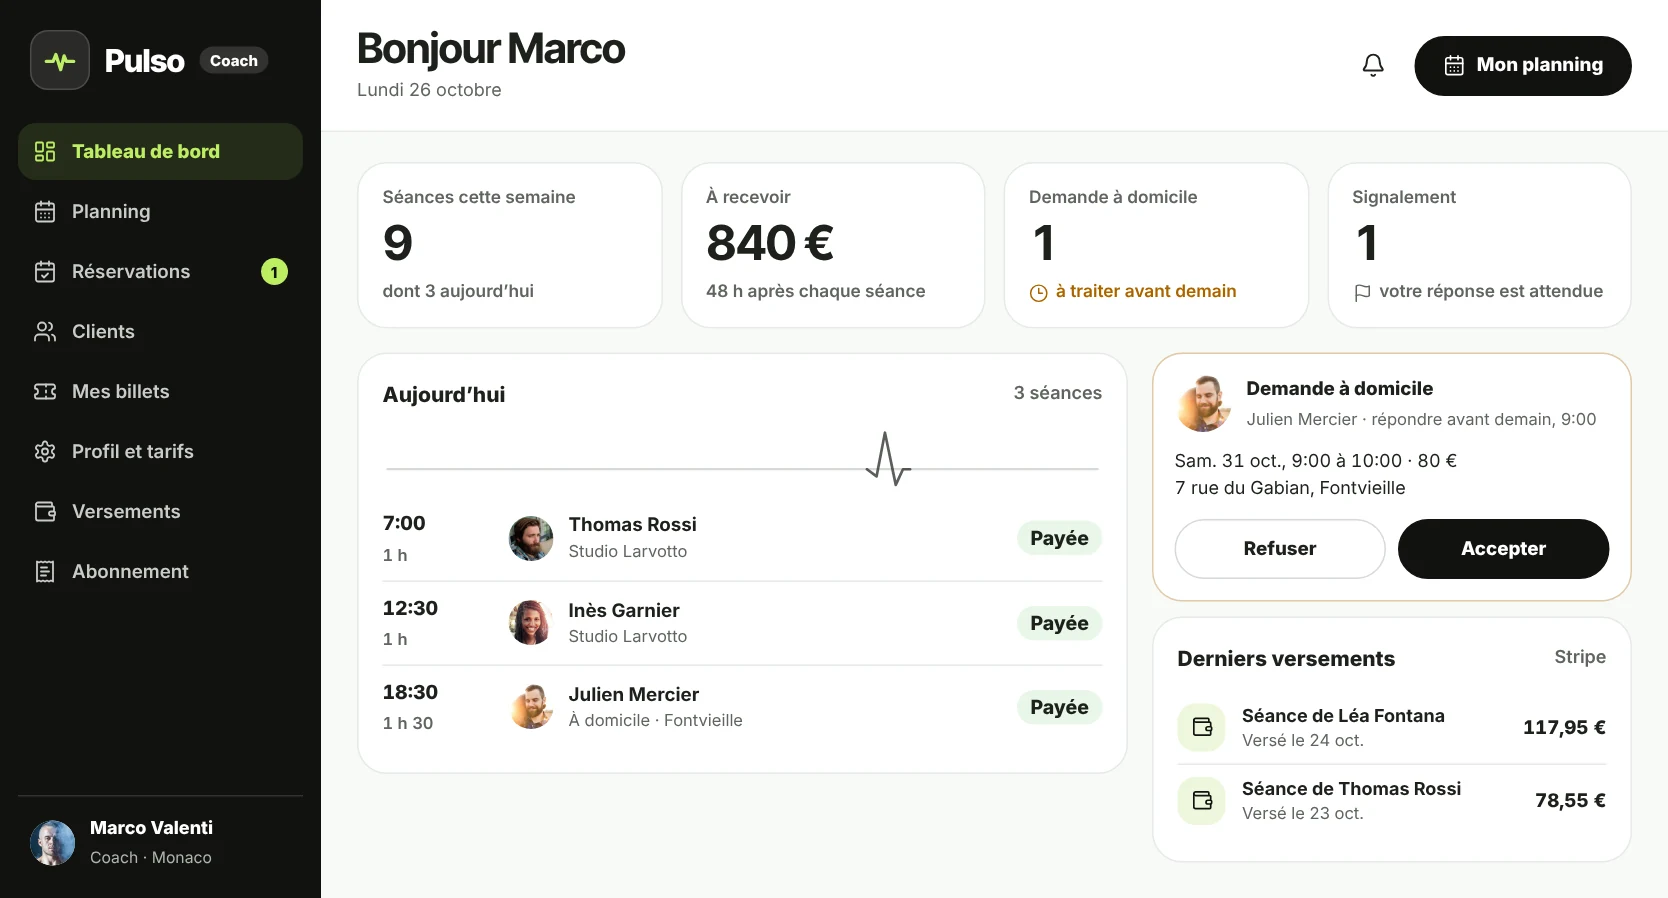
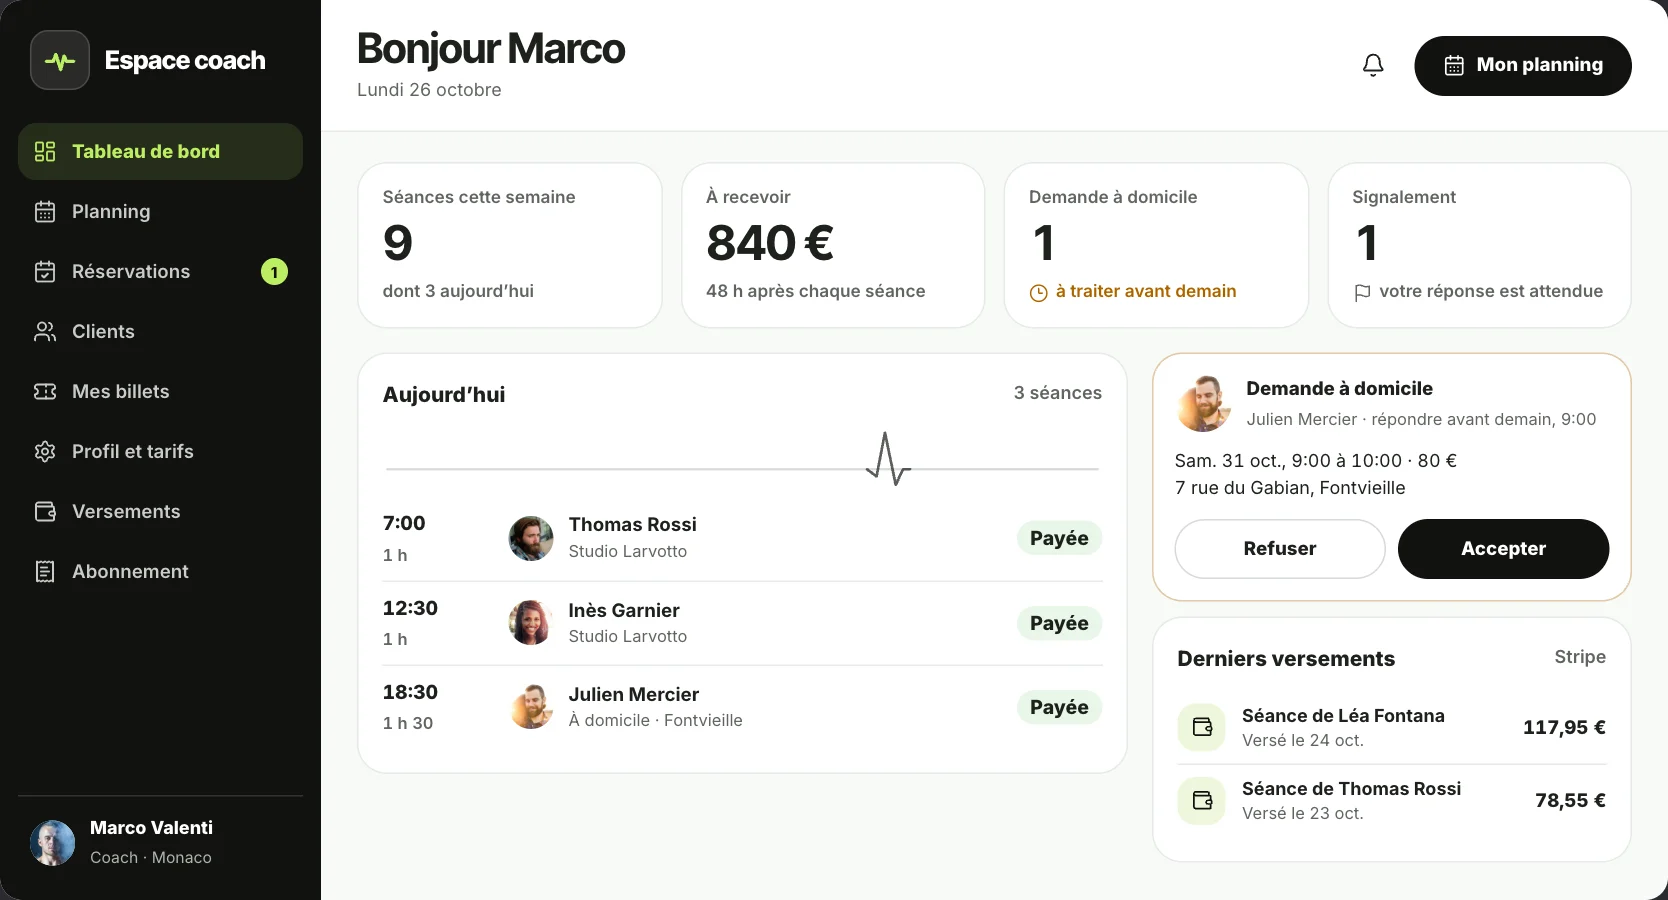
Réalisations : SmoothRide en premier, puis Bailora, WakeUp, coaching et Plouff
Carrousel de l'accueil et page /projets dans le même ordre. La carte
coaching passe en « Application », ses écrans ne portent plus le nom :
« Espace coach » sur ordinateur, « Bonjour Noé » sur le téléphone.

diff --git a/src/ExemplesMetier.jsx b/src/ExemplesMetier.jsx
@@ -16,21 +16,35 @@ import './exemples-metier.css'
 //     là, avec un trait gris à la place du texte, comme une adresse masquée.
 //   - RIEN D'INVENTÉ N'EST PRÉSENTÉ COMME RÉEL. Le titre du bloc dit « déjà construit » : la pastille dit donc
 //     « Application » pour ce qui est construit, et « Maquette d'application » pour la maquette de coaching, qui ne
-//     l'est pas encore (elle passe en dernier). Pas de faux écran d'ordinateur, pas d'application inventée.
-//     Le 27/11/2026, Noé : « Maquette, pour application stp ». La pastille dit « Maquette d'application » et pas
-//     « Application » : au 27/11/2026, le devis de ce projet est envoyé, pas signé, l'application n'existe pas.
+//     l'est pas encore (elle passe avant Plouff). Pas de faux écran d'ordinateur, pas d'application inventée.
+//     Le 27/11/2026 au soir, Noé change d'avis : la pastille de la carte coaching dit « Application », comme les autres.
+//     Ses écrans ne portent plus le nom Pulso : « Espace coach » à côté de l'icône sur ordinateur, « Bonjour Noé »
+//     (plus petit) sur le téléphone. Retouches faites seulement sur les captures, pas sur la page /maquette/pulso.
 //   - La maquette de coaching montre le nom et le logo (« Pulso ») d'un projet qui n'est pas celui de Noé : son
 //     porteur a donné son accord (Noé, 27/11/2026). Pour une autre maquette de prospect : même accord, ou masquer.
 //   - les écrans FLOTTENT doucement (« animation flottement »), l'ordinateur et le téléphone pas au même rythme.
-//   - L'ORDRE : Bailora d'abord (un artisan qui gère ses logements : c'est le visiteur que la page vise), puis
-//     WakeUp Alarme (ajoutée le 26/11/2026 à la demande de Noé), SmoothRide, Plouff Habitudes, et la maquette. Les
-//     deux applications de Noé (WakeUp et Plouff) ne se suivent pas, comme dans le carrousel de l'accueil en ligne.
+//   - L'ORDRE (Noé, 27/11/2026) : SmoothRide, Bailora, WakeUp Alarme, la maquette de coaching (Pulso), puis
+//     Plouff Habitudes.
 //   - WakeUp Alarme : son écran d'ordinateur est le visuel de présentation de l'application, faute de site. Une
 //     capture de son site le remplacerait.
 // Les images de la maquette sont fabriquées par outils/capture_ecran.py à partir de la page /maquette/… (les noms de
 // fichiers ne portent pas le nom du projet).
 const IMAGES = '/assets/images/apps'
 const APPLICATIONS = [
+  {
+    id: 'automobile',
+    metier: 'Automobile',
+    statut: 'Application',
+    role: 'Le trajet le plus doux, sans dos-d’âne.',
+    ordinateur: {
+      src: `${IMAGES}/exemples/smoothride-ordinateur.webp`, largeur: 1245, hauteur: 700,
+      alt: 'Sur ordinateur, le site de l’application : « Votre trajet, sans les dos-d’âne »',
+    },
+    telephones: [
+      { src: `${IMAGES}/captures/smoothride-navigation.webp`, largeur: 660, hauteur: 1431,
+        alt: 'Sur téléphone, la navigation avec les dos-d’âne signalés sur le trajet' },
+    ],
+  },
   {
     id: 'immobilier',
     metier: 'Immobilier',
@@ -62,17 +76,17 @@ const APPLICATIONS = [
     ],
   },
   {
-    id: 'automobile',
-    metier: 'Automobile',
+    id: 'coaching',
+    metier: 'Coaching sportif',
     statut: 'Application',
-    role: 'Le trajet le plus doux, sans dos-d’âne.',
+    role: 'Réserver et payer son coach en quelques secondes.',
     ordinateur: {
-      src: `${IMAGES}/exemples/smoothride-ordinateur.webp`, largeur: 1245, hauteur: 700,
-      alt: 'Sur ordinateur, le site de l’application : « Votre trajet, sans les dos-d’âne »',
+      src: `${IMAGES}/exemples/coaching-ordinateur.webp`, largeur: 1668, hauteur: 900,
+      alt: 'Sur ordinateur, l’espace du coach : ses séances du jour, ses paiements et une demande à accepter',
     },
     telephones: [
-      { src: `${IMAGES}/captures/smoothride-navigation.webp`, largeur: 660, hauteur: 1431,
-        alt: 'Sur téléphone, la navigation avec les dos-d’âne signalés sur le trajet' },
+      { src: `${IMAGES}/exemples/coaching-telephone.webp`, largeur: 912, hauteur: 2033,
+        alt: 'Sur téléphone, l’accueil du client : les coachs libres aujourd’hui et le prochain événement' },
     ],
   },
   {
@@ -89,20 +103,6 @@ const APPLICATIONS = [
         alt: 'Sur téléphone, les habitudes du jour avec la mascotte' },
     ],
   },
-  {
-    id: 'coaching',
-    metier: 'Coaching sportif',
-    statut: 'Maquette d’application',
-    role: 'Réserver et payer son coach en quelques secondes.',
-    ordinateur: {
-      src: `${IMAGES}/exemples/coaching-ordinateur.webp`, largeur: 1668, hauteur: 898,
-      alt: 'Sur ordinateur, le tableau de bord du coach : ses séances du jour, ses paiements et une demande à accepter',
-    },
-    telephones: [
-      { src: `${IMAGES}/exemples/coaching-telephone.webp`, largeur: 912, hauteur: 2052,
-        alt: 'Sur téléphone, l’accueil du client : les coachs libres aujourd’hui et le prochain événement' },
-    ],
-  },
 ]
 
 // LE CARROUSEL DÉFILE TOUT SEUL (Noé, 25/11/2026 : « tourner tout seul au bout de quelques secondes, rapide ») :
@@ -115,7 +115,7 @@ const APPLICATIONS = [
 // est entièrement sorti de l'écran il revient à la première application, pour que chaque arrivée commence par elle.
 const DELAI = 4000
 const DELAI_APRES_GESTE = 8000
-// La première application (Bailora) reste plus longtemps : c'est celle que le visiteur voit en arrivant (Noé,
+// La première application (SmoothRide) reste plus longtemps : c'est celle que le visiteur voit en arrivant (Noé,
 // 26/11/2026, 01 h 26 : « la première mais plus de temps avant de passer à la deuxième, léger »).
 const DELAI_PREMIERE = 6500
 

diff --git a/src/Projets.jsx b/src/Projets.jsx
@@ -51,16 +51,6 @@ const IMAGES = '/assets/images/apps'
 // Les écrans sont ceux du carrousel de l'accueil test (le site de l'application et son écran de téléphone).
 const CAS = [
   {
-    id: 'bailora',
-    metier: 'Immobilier',
-    nom: 'Bailora',
-    icone: `${IMAGES}/bailora.webp`,
-    phrase: 'La gestion de ses locations, sur téléphone.',
-    texte: 'Son fondateur est artisan et gère ses propres logements en location. Loyers, quittances, états des lieux\u00a0: tout était éparpillé entre un tableur, des courriers et des photos. L’application réunit tout, et un assistant IA répond à ses questions.',
-    ordinateur: { src: `${IMAGES}/exemples/bailora-ordinateur.webp`, largeur: 1298, hauteur: 730, alt: 'Sur ordinateur, le site de Bailora : « Vos SCI, enfin simples »' },
-    telephone: { src: `${IMAGES}/captures/bailora-accueil.webp`, largeur: 660, hauteur: 1431, alt: 'Sur téléphone, le tableau de bord des loyers, des paiements et des actions à traiter' },
-  },
-  {
     id: 'smoothride',
     metier: 'Automobile',
     nom: 'SmoothRide',
@@ -72,6 +62,16 @@ const CAS = [
     atout: 'CarPlay et Android Auto',
     ordinateur: { src: `${IMAGES}/exemples/smoothride-ordinateur.webp`, largeur: 1245, hauteur: 700, alt: 'Sur ordinateur, le site de SmoothRide : « Votre trajet, sans les dos-d’âne »' },
     telephone: { src: `${IMAGES}/captures/smoothride-navigation.webp`, largeur: 660, hauteur: 1431, alt: 'Sur téléphone, la navigation avec les dos-d’âne signalés sur le trajet' },
+  },
+  {
+    id: 'bailora',
+    metier: 'Immobilier',
+    nom: 'Bailora',
+    icone: `${IMAGES}/bailora.webp`,
+    phrase: 'La gestion de ses locations, sur téléphone.',
+    texte: 'Son fondateur est artisan et gère ses propres logements en location. Loyers, quittances, états des lieux\u00a0: tout était éparpillé entre un tableur, des courriers et des photos. L’application réunit tout, et un assistant IA répond à ses questions.',
+    ordinateur: { src: `${IMAGES}/exemples/bailora-ordinateur.webp`, largeur: 1298, hauteur: 730, alt: 'Sur ordinateur, le site de Bailora : « Vos SCI, enfin simples »' },
+    telephone: { src: `${IMAGES}/captures/bailora-accueil.webp`, largeur: 660, hauteur: 1431, alt: 'Sur téléphone, le tableau de bord des loyers, des paiements et des actions à traiter' },
   },
   {
     id: 'wakeup',
